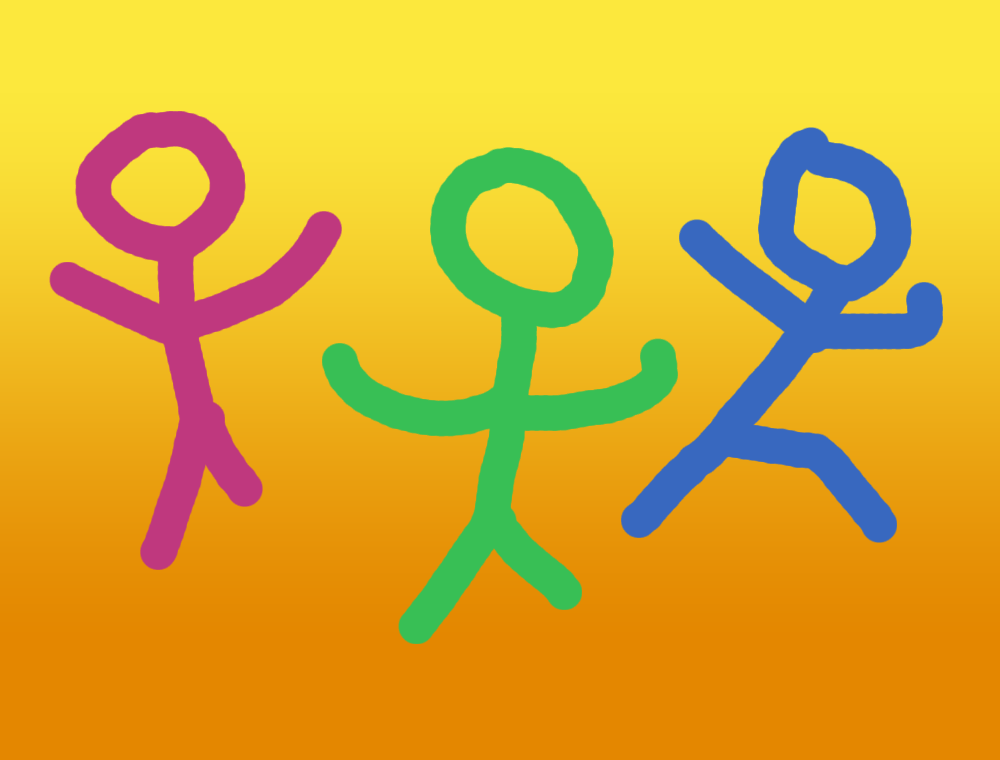
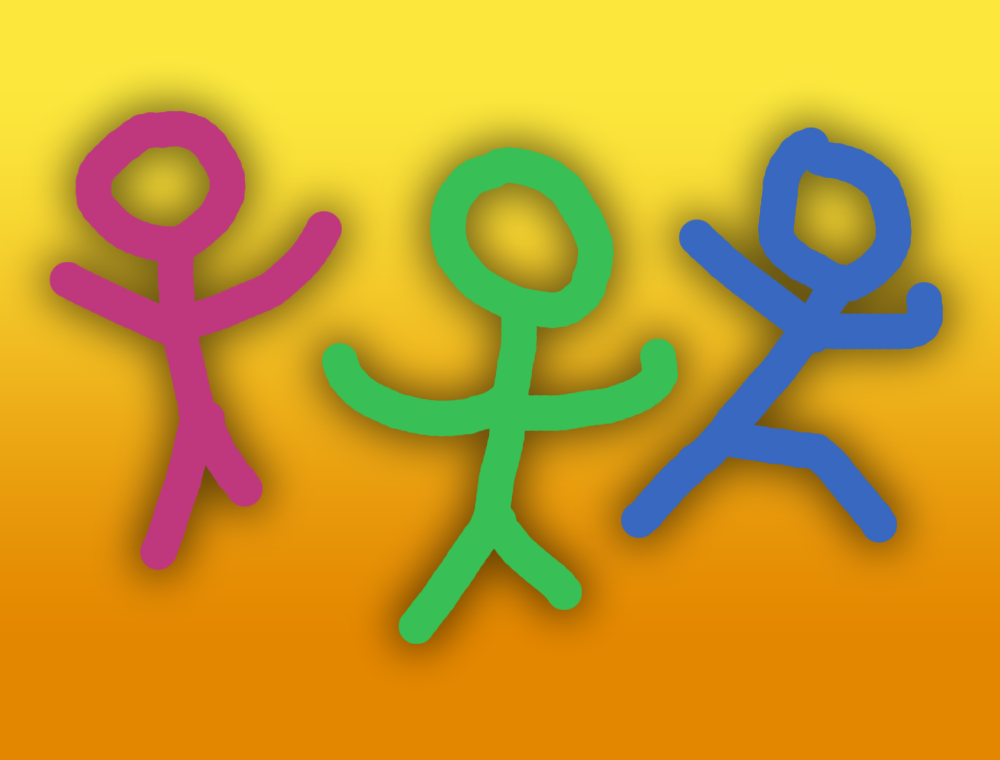
Continue the continuing of the Big Rework
Add More The Merrier, buff Warded Bracelet, and fix wording for Madhouse to match Perfected Strike

Changed region(s): [[0.031, 0.0908, 0.992, 0.8776]]

diff --git a/AjamaGhouliganCode/Cards/Common/Attack/MoreTheMerrier.cs b/AjamaGhouliganCode/Cards/Common/Attack/MoreTheMerrier.cs
@@ -1,0 +1,63 @@
+using AjamaGhouligan.AjamaGhouliganCode.Cards;
+using AjamaGhouligan.AjamaGhouliganCode.DynamicVars;
+using AjamaGhouligan.AjamaGhouliganCode.Powers;
+using AjamaGhouligan.AjamaGhouliganCode.Utils;
+using BaseLib.Extensions;
+using BaseLib.Utils;
+using MegaCrit.Sts2.Core.Commands;
+using MegaCrit.Sts2.Core.Entities.Cards;
+using MegaCrit.Sts2.Core.GameActions.Multiplayer;
+using MegaCrit.Sts2.Core.HoverTips;
+using MegaCrit.Sts2.Core.Localization.DynamicVars;
+using MegaCrit.Sts2.Core.Models;
+using MegaCrit.Sts2.Core.Models.Monsters;
+using MegaCrit.Sts2.Core.ValueProps;
+
+namespace AjamaGhouligan.AjamaGhouliganCode.Cards.Common.Attack;
+
+public class MoreTheMerrier() : AjamaGhouliganCard(0,
+    CardType.Attack, CardRarity.Common,
+    TargetType.AnyEnemy),
+    IOnDisinter
+{
+    protected override IEnumerable<DynamicVar> CanonicalVars =>
+    [
+        new DamageVar(5, DamageProps.card),
+        new DisinterVar(1)
+    ];
+
+    public override IEnumerable<CardKeyword> CanonicalKeywords =>
+    [
+        MyEnums.Grave,
+        MyEnums.Bury
+    ];
+
+    public override IEnumerable<IHoverTip> MyHoverTips =>
+    [
+        HoverTipFactory.Static(MyEnums.Disinter),
+        HoverTipFactory.FromKeyword(MyEnums.Haunted)
+    ];
+
+    protected override async Task OnPlay(
+        PlayerChoiceContext choiceContext,
+        CardPlay play)
+    {
+        await CommonActions.CardAttack(this, play,
+                1,
+                VfxCmd.gazePath)
+            .Execute(choiceContext);
+    }
+    
+    public async Task OnDisinter(CardModel card)
+    {
+        if (card != this) return;
+
+        await MyActions.DisinterRandomNonHaunted(this);
+    }
+
+    protected override void OnUpgrade()
+    {
+        DynamicVars.Damage.UpgradeValueBy(2);
+        DynamicVars.Disinter.UpgradeValueBy(1);
+    }
+}

diff --git a/AjamaGhouliganCode/Relics/WardedBracelet.cs b/AjamaGhouliganCode/Relics/WardedBracelet.cs
@@ -30,7 +30,6 @@ public class WardedBracelet() : AjamaGhouliganRelic
         CardModel? cardSource)
     {
         if (applier != Owner.Creature) return;
-        if (power.Owner != Owner.Creature) return;
         if (amount <= 0) return;
         if (power is not DoomPower) return;
         
